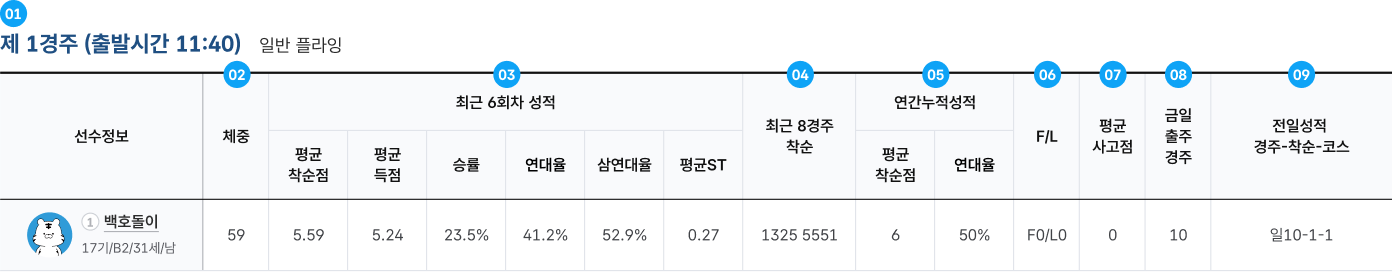
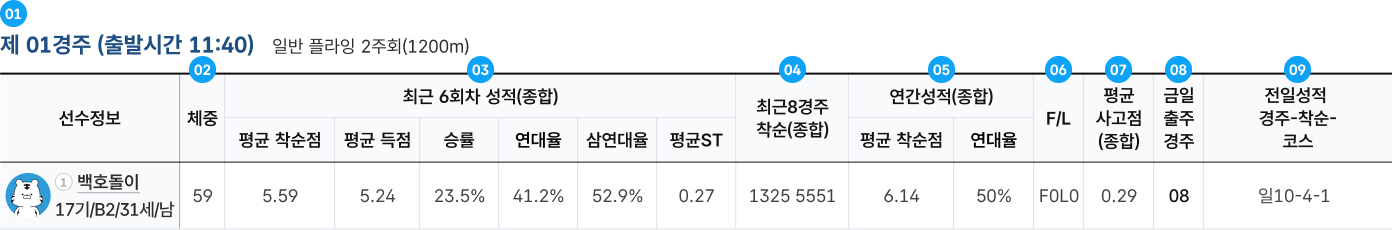
20250213 18:01

diff --git a/project/dist/html/menu21/page_01_02_02.html b/project/dist/html/menu21/page_01_02_02.html
@@ -866,21 +866,21 @@
                                     <li class="numItem">
                                         <div class="tit">
                                             <span class="num">03</span>
-                                            <span class="txt">최근 6회차성적</span>
+                                            <span class="txt">최근 6회차 성적(종합)</span>
                                         </div>
                                         <div class="desc">최근 출전한 6회차의 평균착순점, 평균득점, 승률, 연대율, 삼연대율, 평균ST/OST 기록을 안내합니다.</div>
                                     </li>
                                     <li class="numItem">
                                         <div class="tit">
                                             <span class="num">04</span>
-                                            <span class="txt">최근 8경주착순</span>
+                                            <span class="txt">최근8경주착순(종합)</span>
                                         </div>
                                         <div class="desc">최근 출전한 8경주의 착순 기록으로 좌측부터 최근 성적순으로 표기합니다.</div>
                                     </li>
                                     <li class="numItem">
                                         <div class="tit">
                                             <span class="num">05</span>
-                                            <span class="txt">연간누적성적</span>
+                                            <span class="txt">연간성적(종합)</span>
                                         </div>
                                         <div class="desc">연간 누적 평균착순점, 연대율을 의미합니다.</div>
                                     </li>
@@ -894,7 +894,7 @@
                                     <li class="numItem">
                                         <div class="tit">
                                             <span class="num">07</span>
-                                            <span class="txt">평균 사고점</span>
+                                            <span class="txt">평균 사고점(종합)</span>
                                         </div>
                                         <div class="desc">등급심사시간의 평균사고점을 의미합니다.</div>
                                     </li>
@@ -908,7 +908,7 @@
                                     <li class="numItem">
                                         <div class="tit">
                                             <span class="num">09</span>
-                                            <span class="txt">전일성적</span>
+                                            <span class="txt">전일성적 경주-착순-코스</span>
                                         </div>
                                         <div class="desc">전일 출전한 경주, 착순, 코스를 안내합니다.</div>
                                     </li>
@@ -935,14 +935,14 @@
                                     <li class="numItem">
                                         <div class="tit">
                                             <span class="num">11</span>
-                                            <span class="txt">모터성적</span>
+                                            <span class="txt">모터성적(종합)</span>
                                         </div>
                                         <div class="desc">번호, 평균 착순점, 연대율</div>
                                     </li>
                                     <li class="numItem">
                                         <div class="tit">
                                             <span class="num">12</span>
-                                            <span class="txt">보트성적</span>
+                                            <span class="txt">보트성적(종합)</span>
                                         </div>
                                         <div class="desc">번호, 평균 착순점, 연대율</div>
                                     </li>

diff --git a/project/src/html/menu21/page_01_02_02.html b/project/src/html/menu21/page_01_02_02.html
@@ -66,21 +66,21 @@
                                     <li class="numItem">
                                         <div class="tit">
                                             <span class="num">03</span>
-                                            <span class="txt">최근 6회차성적</span>
+                                            <span class="txt">최근 6회차 성적(종합)</span>
                                         </div>
                                         <div class="desc">최근 출전한 6회차의 평균착순점, 평균득점, 승률, 연대율, 삼연대율, 평균ST/OST 기록을 안내합니다.</div>
                                     </li>
                                     <li class="numItem">
                                         <div class="tit">
                                             <span class="num">04</span>
-                                            <span class="txt">최근 8경주착순</span>
+                                            <span class="txt">최근8경주착순(종합)</span>
                                         </div>
                                         <div class="desc">최근 출전한 8경주의 착순 기록으로 좌측부터 최근 성적순으로 표기합니다.</div>
                                     </li>
                                     <li class="numItem">
                                         <div class="tit">
                                             <span class="num">05</span>
-                                            <span class="txt">연간누적성적</span>
+                                            <span class="txt">연간성적(종합)</span>
                                         </div>
                                         <div class="desc">연간 누적 평균착순점, 연대율을 의미합니다.</div>
                                     </li>
@@ -94,7 +94,7 @@
                                     <li class="numItem">
                                         <div class="tit">
                                             <span class="num">07</span>
-                                            <span class="txt">평균 사고점</span>
+                                            <span class="txt">평균 사고점(종합)</span>
                                         </div>
                                         <div class="desc">등급심사시간의 평균사고점을 의미합니다.</div>
                                     </li>
@@ -108,7 +108,7 @@
                                     <li class="numItem">
                                         <div class="tit">
                                             <span class="num">09</span>
-                                            <span class="txt">전일성적</span>
+                                            <span class="txt">전일성적 경주-착순-코스</span>
                                         </div>
                                         <div class="desc">전일 출전한 경주, 착순, 코스를 안내합니다.</div>
                                     </li>
@@ -135,14 +135,14 @@
                                     <li class="numItem">
                                         <div class="tit">
                                             <span class="num">11</span>
-                                            <span class="txt">모터성적</span>
+                                            <span class="txt">모터성적(종합)</span>
                                         </div>
                                         <div class="desc">번호, 평균 착순점, 연대율</div>
                                     </li>
                                     <li class="numItem">
                                         <div class="tit">
                                             <span class="num">12</span>
-                                            <span class="txt">보트성적</span>
+                                            <span class="txt">보트성적(종합)</span>
                                         </div>
                                         <div class="desc">번호, 평균 착순점, 연대율</div>
                                     </li>
